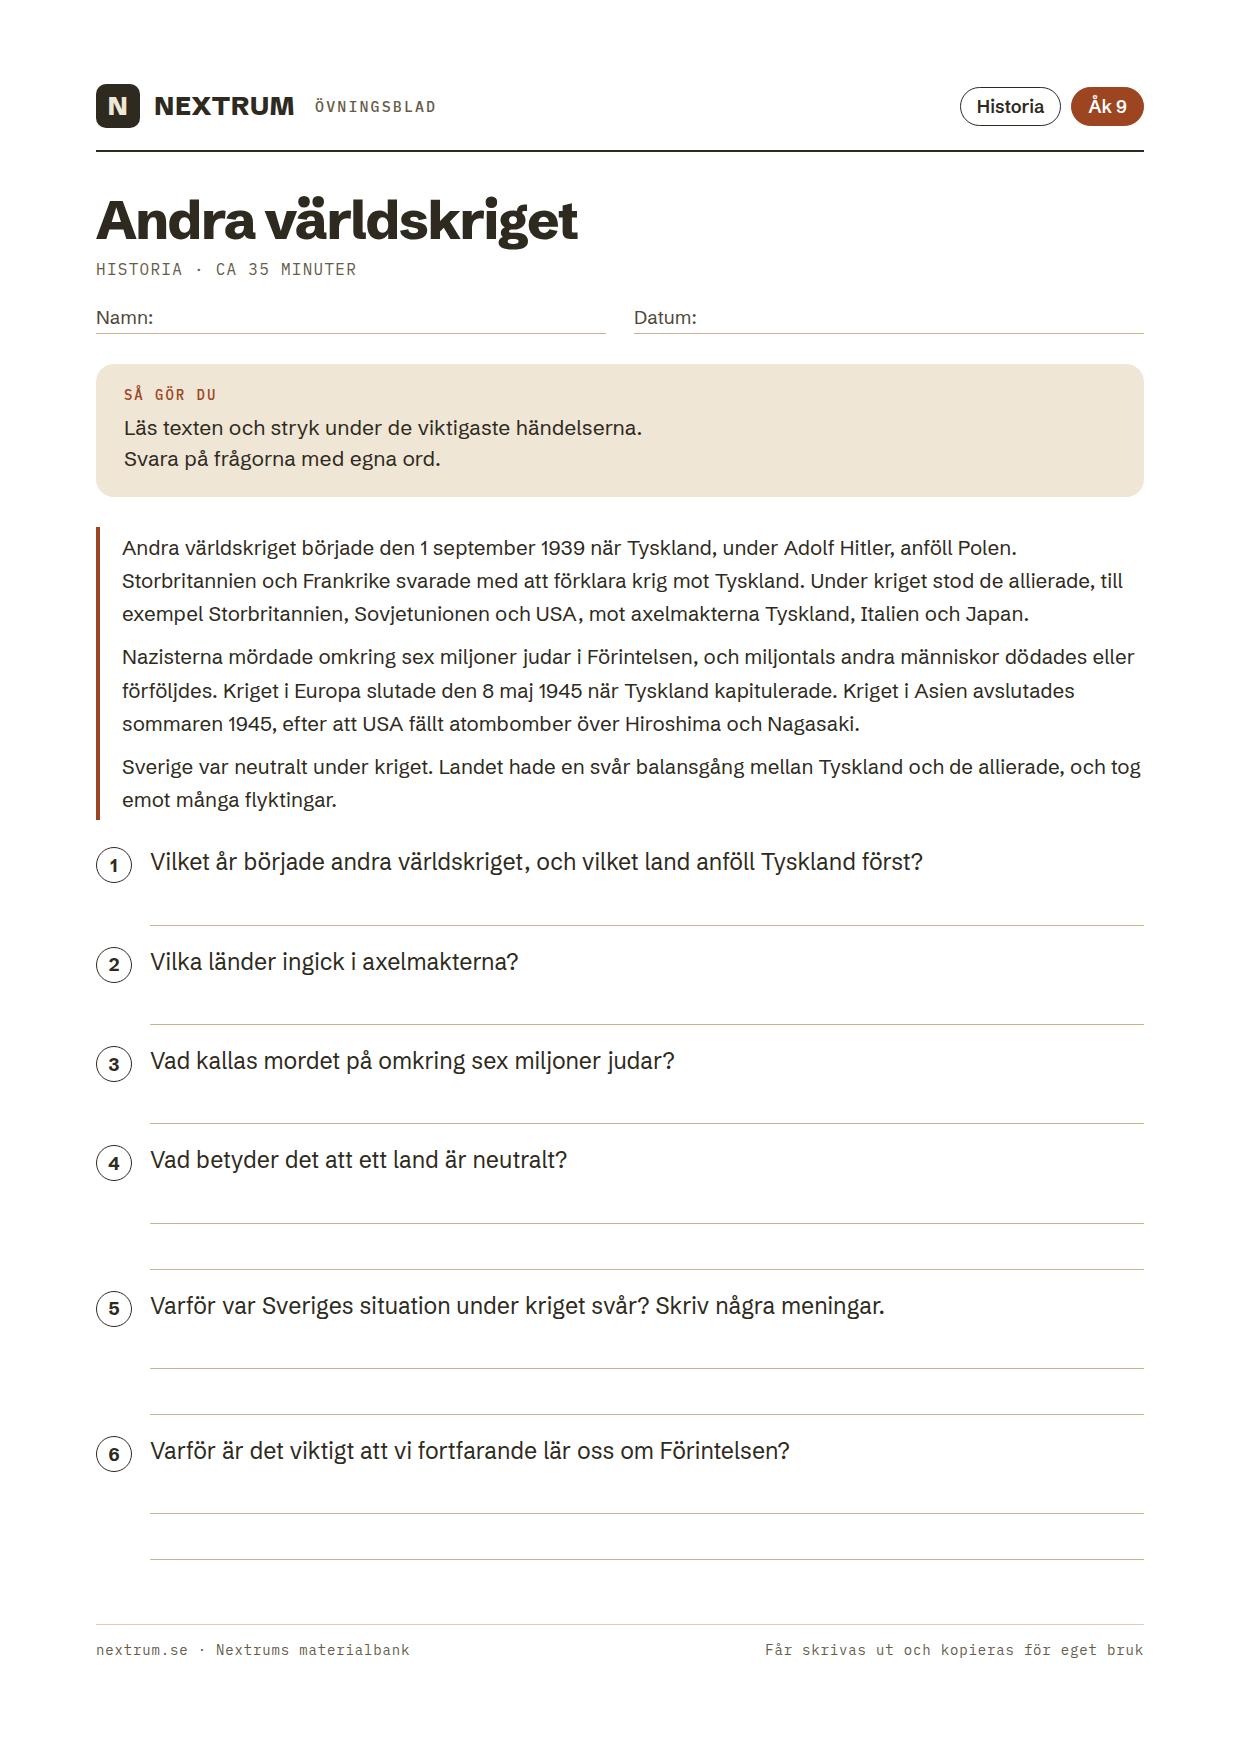
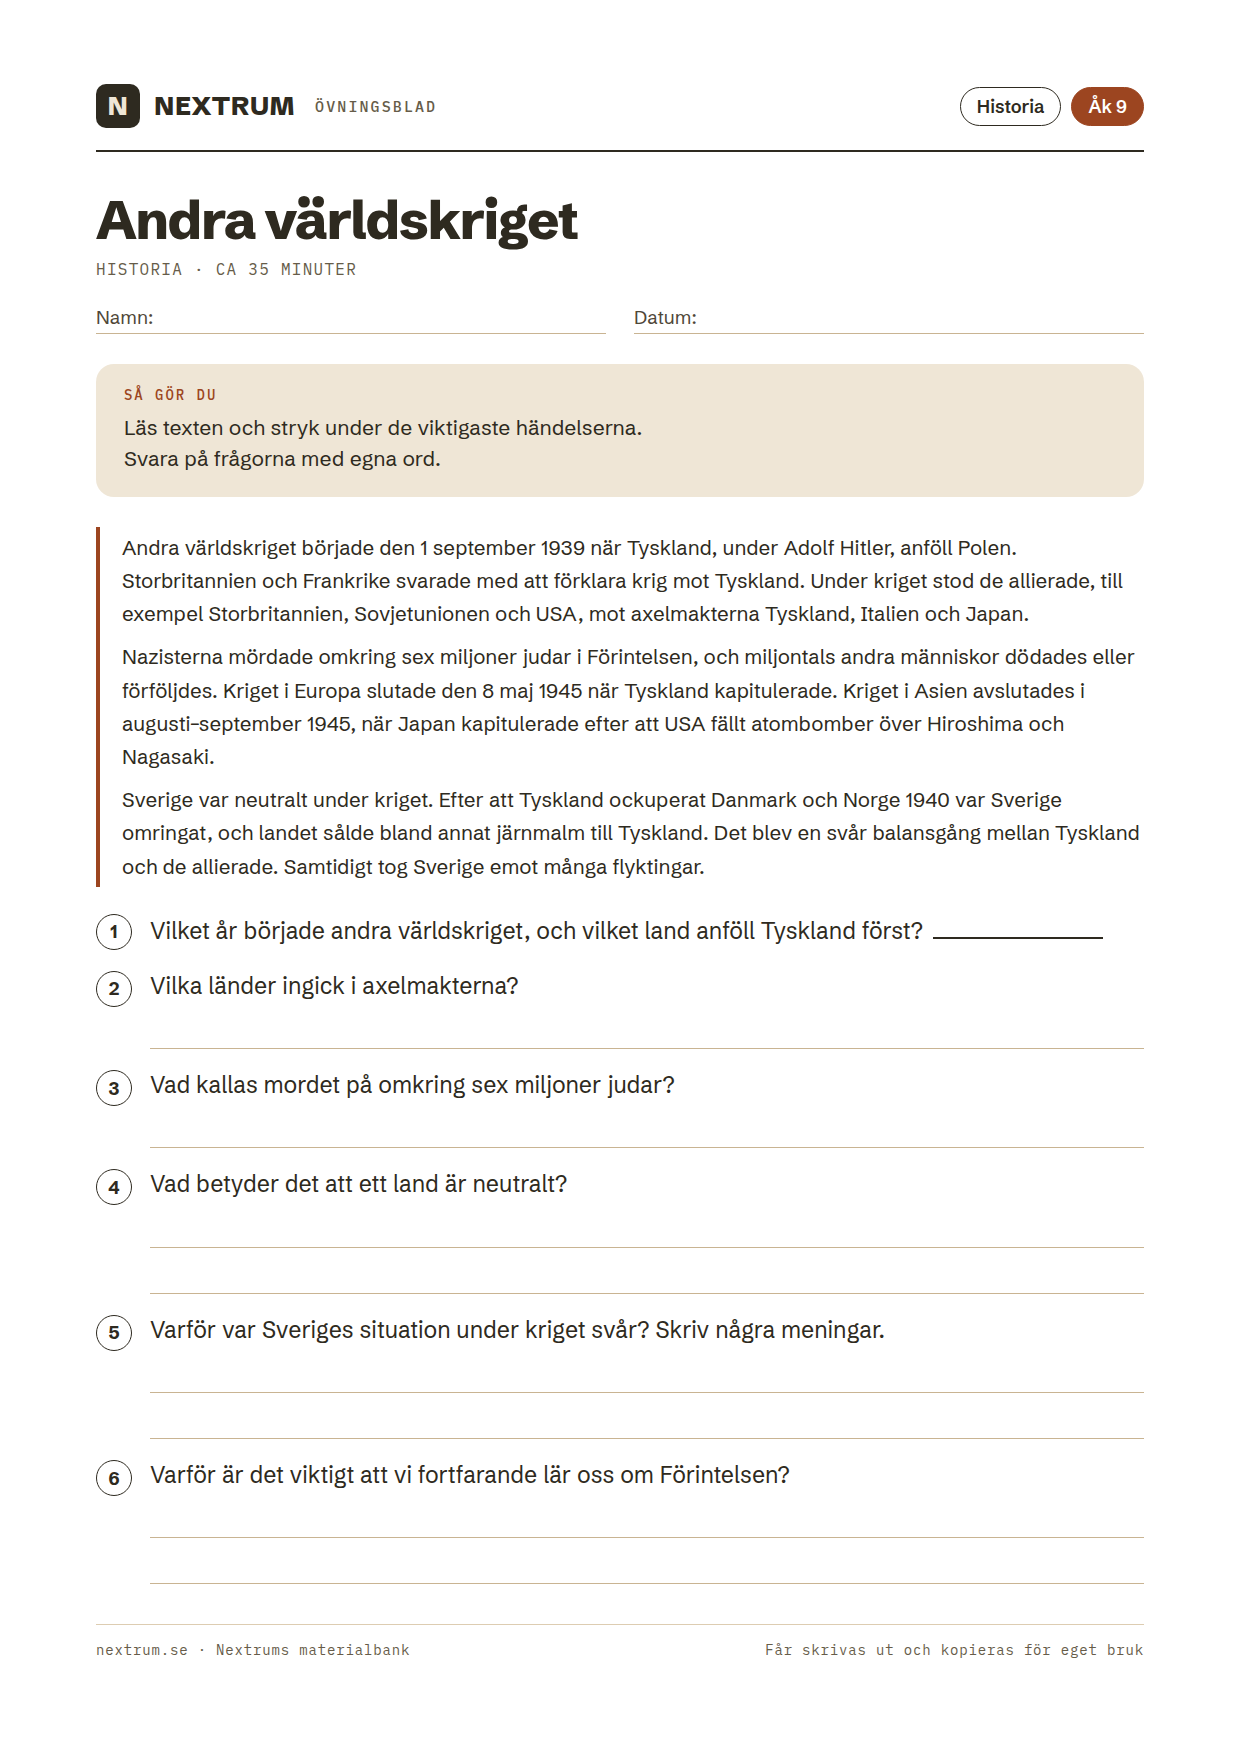
Fas 15.6: sakgranskningen rättar sju blad i materialbanken
Krafter åk 6 frågade efter stödkraft som inte stod i instruktionen och
byter till gravitation och friktion. Andra världskriget åk 9 daterar
Japans kapitulation rätt (augusti–september 1945) och förklarar Sveriges
balansgång i texten. Samhällsekonomin gy 3 ger ett argument för och ett
emot progressiv skatt. Mindre rättningar: atomnumret, mRNA som
komplement till templatsträngen, "nästan alla celler", vikingarnas väg
genom Ryssland och Ukraina, verkstäder i stället för järnbruk.

Migrationen är oförändrad: ingen titel eller beskrivning ändrades.

Claude-Session: https://claude.ai/code/session_011LBvXSaptKobfKq6P5G3d3

Changed region(s): [[0.0613, 0.4002, 0.9194, 0.6773], [0.1226, 0.8005, 0.6435, 0.862], [0.0613, 0.7389, 0.7048, 0.7697]]

diff --git a/verktyg/bladen/hogstadiet.py b/verktyg/bladen/hogstadiet.py
@@ -211,7 +211,7 @@ BLAD = [
          titel='Atomer och grundämnen', omrade='Kemi: atomens byggnad', tid='35 minuter',
          instruktion=['En atom har en kärna med protoner (positiva) och neutroner (utan laddning). Runt kärnan finns elektroner (negativa).',
                       'Antalet protoner bestämmer vilket grundämne det är. En neutral atom har lika många elektroner som protoner.',
-                      'Ett grundämne består av en sorts atomer. En kemisk förening består av flera sorters atomer, till exempel H₂O.'],
+                      'Atomnumret är antalet protoner. Ett grundämne består av en sorts atomer, och en kemisk förening av flera sorters atomer, till exempel H₂O.'],
          uppgifter=[('Vilken laddning har protoner, neutroner och elektroner? ___, ___ och ___', 0),
                     ('Kol har atomnummer 6. Hur många protoner har en kolatom? []', 0),
                     ('En neutral syreatom har 8 protoner. Hur många elektroner har den? []', 0),
@@ -229,7 +229,7 @@ BLAD = [
                       'Svara sedan på frågorna med egna ord.'],
          text=('Fram till mitten av 1800-talet bodde de flesta svenskar på landsbygden och levde av jordbruk. '
                'Från ungefär 1850 började det som kallas industrialiseringen. Järnvägar byggdes, vilket gjorde '
-               'det lättare att transportera varor. Sågverk, järnbruk och textilfabriker växte fram, och '
+               'det lättare att transportera varor. Sågverk, verkstäder och textilfabriker växte fram, och '
                'maskiner ersatte handarbete på många ställen. Många flyttade från landet till städerna för att '
                'arbeta i fabrikerna, och det kallas urbanisering. Arbetsdagarna var långa och lönerna låga, och '
                'även barn arbetade. För att få bättre villkor bildade arbetarna fackföreningar. Samtidigt lämnade '
@@ -363,10 +363,11 @@ BLAD = [
                'till exempel Storbritannien, Sovjetunionen och USA, mot axelmakterna Tyskland, Italien och Japan.',
                'Nazisterna mördade omkring sex miljoner judar i Förintelsen, och miljontals andra människor dödades eller '
                'förföljdes. Kriget i Europa slutade den 8 maj 1945 när Tyskland kapitulerade. Kriget i Asien avslutades '
-               'sommaren 1945, efter att USA fällt atombomber över Hiroshima och Nagasaki.',
-               'Sverige var neutralt under kriget. Landet hade en svår balansgång mellan Tyskland och de allierade, och tog '
-               'emot många flyktingar.'],
-         uppgifter=[('Vilket år började andra världskriget, och vilket land anföll Tyskland först?', 1),
+               'i augusti–september 1945, när Japan kapitulerade efter att USA fällt atombomber över Hiroshima och Nagasaki.',
+               'Sverige var neutralt under kriget. Efter att Tyskland ockuperat Danmark och Norge 1940 var Sverige omringat, och landet '
+               'sålde bland annat järnmalm till Tyskland. Det blev en svår balansgång mellan Tyskland och de allierade. '
+               'Samtidigt tog Sverige emot många flyktingar.'],
+         uppgifter=[('Vilket år började andra världskriget, och vilket land anföll Tyskland först? ___', 0),
                     ('Vilka länder ingick i axelmakterna?', 1),
                     ('Vad kallas mordet på omkring sex miljoner judar?', 1),
                     ('Vad betyder det att ett land är neutralt?', 2),

diff --git a/verktyg/bladen/gymnasiet.py b/verktyg/bladen/gymnasiet.py
@@ -305,14 +305,15 @@ BLAD = [
                     ('Vad händer vanligen med inflationen när Riksbanken höjer styrräntan? Förklara kedjan steg för steg.', 2),
                     ('Nämn tre tecken på en lågkonjunktur.', 2),
                     ('Ge ett exempel på en inkomst och ett exempel på en utgift i statens budget.', 1),
-                    ('Förklara vad progressiv skatt innebär och varför många anser att den är rättvis.', 2)],
+                    ('Förklara vad progressiv skatt innebär. Ge ett argument för och ett argument mot.', 2)],
          beskrivning='BNP, inflation, reallön, styrränta, konjunktur och statens budget: begrepp och enkla uträkningar.'),
 
     dict(fil='gy3-biologi-fran-dna-till-protein', arskurs='gy3', amne='NO / Fysik / Kemi / Biologi', chip='Biologi',
          titel='Från DNA till protein', omrade='Biologi 1: genetik', tid='40 minuter',
          instruktion=['DNA har fyra baser: adenin (A), tymin (T), cytosin (C) och guanin (G). A binder till T och C binder till G.',
                       'Transkription: en gen skrivs av till mRNA i cellkärnan. I RNA ersätts T av U (uracil).',
-                      'Translation: ribosomerna läser mRNA tre baser i taget (kodon) och bygger ett protein av aminosyror.'],
+                      'Translation: ribosomerna läser mRNA tre baser i taget (kodon) och bygger ett protein av aminosyror.',
+                      'mRNA bildas komplementärt mot templatsträngen: A ger U, T ger A, C ger G och G ger C.'],
          uppgifter=[('Skriv den komplementära DNA-strängen till TACGGCAT. ___', 0),
                     ('DNA-strängen TACGGCAT är templatsträng. Vilken mRNA-sekvens bildas vid transkriptionen? ___', 0),
                     ('Hur många baser utgör ett kodon, och vad kodar ett kodon för? ___', 0),
@@ -320,6 +321,6 @@ BLAD = [
                     ('En gen har 300 baspar. Hur många aminosyror kodar den för som mest? []', 0),
                     ('Vad är en mutation? Ge ett exempel på en möjlig följd.', 2),
                     ('Förklara skillnaden mellan transkription och translation.', 3),
-                    ('Alla celler i kroppen har samma DNA. Varför kan en hudcell och en nervcell ändå se ut och fungera olika?', 2)],
+                    ('Nästan alla celler i kroppen har samma DNA. Varför kan en hudcell och en nervcell ändå se ut och fungera olika?', 2)],
          beskrivning='DNA, basparning, transkription, translation och mutationer: räkna med baser och kodon och förklara genuttryck.'),
 ]

diff --git a/verktyg/bladen/mellanstadiet.py b/verktyg/bladen/mellanstadiet.py
@@ -189,7 +189,7 @@ BLAD = [
                'Sverige, Norge och Danmark. De flesta var bönder och fiskare, men många gav sig också ut på '
                'långa resor. De seglade i smala långskepp som gick bra både på hav och på floder. '
                'Vikingarna handlade med silver, pälsar och slavar, och en del plundrade också kloster och '
-               'städer. Vikingar från Sverige reste ofta österut, genom Ryssland och vidare mot Konstantinopel. '
+               'städer. Vikingar från Sverige reste ofta österut, genom det som i dag är Ryssland och Ukraina och vidare mot Konstantinopel. '
                'De trodde på många gudar, till exempel Oden, Tor och Frej. Viktiga frågor avgjordes på tinget, '
                'där fria människor samlades. För att skriva använde vikingarna runor, som ristades i sten och trä.'),
          uppgifter=[('När var vikingatiden ungefär?', 1),
@@ -270,6 +270,6 @@ BLAD = [
                     ('Nämn tre saker en kraft kan göra med ett föremål.', 2),
                     ('Varför är det lättare att gå på torr asfalt än på blank is? Förklara.', 2),
                     ('Ge ett exempel där friktion är bra och ett där den är besvärlig.', 2),
-                    ('Rita en låda som står på ett bord. Rita pilar som visar vilka krafter som verkar på lådan och skriv vad de heter.', 'ruta')],
+                    ('Rita en låda som skjuts över ett golv. Rita pilar som visar gravitationen och friktionen och skriv vad de heter.', 'ruta')],
          beskrivning='Krafter i vardagen: gravitation, friktion och newton, med frågor och en teckning med kraftpilar.'),
 ]
